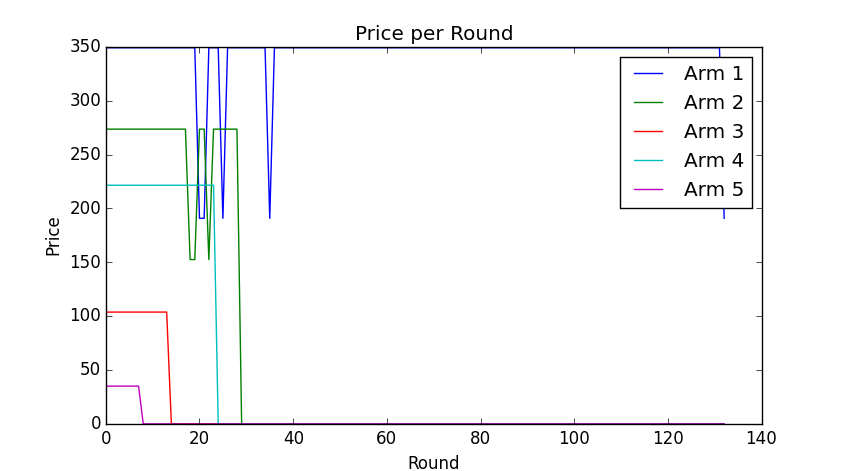
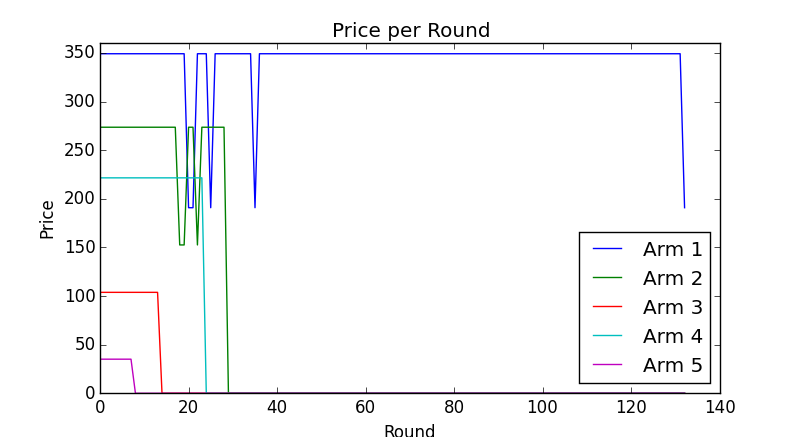
Fixed limited supply

diff --git a/LimitedSupply/MultiArmedBandit_Mech2.py b/LimitedSupply/MultiArmedBandit_Mech2.py
@@ -1,0 +1,140 @@
+from BanditArm import BanditArm
+import numpy as np
+import pandas as pd
+import matplotlib.pyplot as plt
+
+
+#Initialize variables
+k = [7, 8, 14, 9, 28]
+i = 10
+
+#Initialize p and find k_total
+pl = np.zeros(5)
+m = np.zeros(5)
+k_total = np.sum(k)
+n = 10^(k_total)
+
+#Initialize bandits
+arm1 = BanditArm(k[0],n,i,2)
+arm2 = BanditArm(k[1],n,i,2)
+arm3 = BanditArm(k[2],n,i,2)
+arm4 = BanditArm(k[3],n,i,2)
+arm5 = BanditArm(k[4],n,i,2)
+
+#Randomly choose each customer's "ideal" price
+max_price = 1
+ideal_prices = np.random.random(n) * (max_price + 1)
+
+arm1_stop = False
+arm2_stop = False
+arm3_stop = False
+arm4_stop = False
+arm5_stop = False
+
+
+while (True):
+
+	if (arm1_stop == False):
+		pl[0] = arm1.compute_pl()
+		m[0] = arm1.offer_pl()
+		arm1.computeSlandPl(m[0],pl[0],ideal_prices)
+		if ((arm1.Sl >= arm1.gamma*(1.+arm1.delta)**(-1.)) and (arm1.Rl >= arm1.R_max)):
+			arm1.R_max = arm1.Rl
+			arm1.l_max = arm1.l
+
+	if (arm2_stop == False):
+		pl[1] = arm2.compute_pl()
+		m[1] = arm2.offer_pl()
+		arm2.computeSlandPl(m[1],pl[1],ideal_prices)
+		if ((arm2.Sl >= arm2.gamma*(1.+arm2.delta)**(-1.)) and (arm2.Rl >= arm2.R_max)):
+			arm2.R_max = arm2.Rl
+			arm2.l_max = arm2.l
+
+	if (arm3_stop == False):
+		pl[2] = arm3.compute_pl()
+		m[2] = arm3.offer_pl()
+		arm3.computeSlandPl(m[2],pl[2],ideal_prices)
+		if ((arm3.Sl >= arm3.gamma*(1.+arm3.delta)**(-1.)) and (arm3.Rl >= arm3.R_max)):
+			arm3.R_max = arm3.Rl
+			arm3.l_max = arm3.l
+
+	if (arm4_stop == False):
+		pl[3] = arm4.compute_pl()
+		m[3] = arm4.offer_pl()
+		arm4.computeSlandPl(m[3],pl[3],ideal_prices)
+		if ((arm4.Sl >= arm4.gamma*(1.+arm4.delta)**(-1.)) and (arm4.Rl >= arm4.R_max)):
+			arm4.R_max = arm4.Rl
+			arm4.l_max = arm4.l
+	
+	if (arm5_stop == False):
+		pl[4] = arm5.compute_pl()
+		m[4] = arm5.offer_pl()
+		arm5.computeSlandPl(m[4],pl[4],ideal_prices)
+		if ((arm5.Sl >= arm5.gamma*(1.+arm5.delta)**(-1.)) and (arm5.Rl >= arm5.R_max)):
+			arm5.R_max = arm5.Rl
+			arm5.l_max = arm5.l
+
+
+	#Now check each arm
+	if (arm1_stop == False):
+		if ((arm1.pl <= arm1.epsilon) or (arm1.Sl >= (1 + arm1.delta) * arm1.alpha) or (arm1.Rl <= arm1.R_max * (1 + arm1.delta)**(-2))):
+			arm1_stop = True
+			print "arm 1 stopped"
+
+	if (arm2_stop == False):
+		if ((arm2.pl <= arm2.epsilon) or (arm2.Sl >= (1 + arm2.delta) * arm2.alpha) or (arm2.Rl <= arm2.R_max * (1 + arm2.delta)**(-2))):
+			arm2_stop = True
+			print "arm 2 stopped"
+
+	if (arm3_stop == False):
+		if ((arm3.pl <= arm3.epsilon) or (arm3.Sl >= (1 + arm3.delta) * arm3.alpha) or (arm3.Rl <= arm3.R_max * (1 + arm3.delta)**(-2))):
+			arm3_stop = True
+			print "arm 3 stopped"
+
+	if (arm4_stop == False):
+		if ((arm4.pl <= arm4.epsilon) or (arm4.Sl >= (1 + arm4.delta) * arm4.alpha) or (arm4.Rl <= arm4.R_max * (1 + arm4.delta)**(-2))):
+			arm4_stop = True
+			print "arm 4 stopped"
+
+	if (arm5_stop == False):
+		if ((arm5.pl <= arm5.epsilon) or (arm5.Sl >= (1 + arm5.delta) * arm5.alpha) or (arm5.Rl <= arm5.R_max * (1 + arm5.delta)**(-2))):
+			arm5_stop = True
+			print "arm 5 stopped"
+
+
+	if (arm1_stop and arm2_stop and arm3_stop and arm4_stop and arm5_stop):
+		break;
+
+	#print pl
+
+
+n_groups = 5
+
+prices = (arm1.pl * 100., arm2.pl * 100., arm3.pl * 100., arm4.pl * 100., arm5.pl * 100.)
+percent_accept = (arm1.Sl * 100., arm2.Sl * 100., arm3.Sl * 100., arm4.Sl * 100., arm5.Sl * 100.)
+
+fig, ax = plt.subplots()
+
+index = np.arange(n_groups)
+bar_width = 0.35
+
+opacity = 0.4
+error_config = {'ecolor': '0.3'}
+
+rects1 = plt.bar(index, prices, bar_width,
+                 alpha=opacity,
+                 color='b',
+                 label='% of Original Price')
+
+rects2 = plt.bar(index + bar_width, percent_accept, bar_width,
+                 alpha=opacity,
+                 color='r',
+                 label='% Acceptance')
+
+plt.ylabel('Percentage')
+plt.title('% of Original Price and % Acceptance Rate Per Arm \n k = ' + str(k))
+plt.xticks(index + bar_width, ('Arm 1', 'Arm 2', 'Arm 3', 'Arm 4', 'Arm 5'))
+plt.legend(loc=2)
+
+plt.tight_layout()
+plt.show()

diff --git a/LimitedSupply/BanditArm.py b/LimitedSupply/BanditArm.py
@@ -1,46 +1,73 @@
 #Multi-Armed Bandit Class
 import numpy as np
 from math import log10
-import matplotlib.pyplot as plt
-from mpl_toolkits.mplot3d import Axes3D
+import math
 import pandas as pd
-import random
+from random import random
 
 class BanditArm:
 
-	def __init__(self, k, n, i):
+	def __init__(self, k, n, i, mechanism):
 
-		self.k = k #number of items
-		self.n = n #number of buyers
-		self.i = i #number of total possible prices
+		#For mechanism #1:
+		if (mechanism == 1):
+			self.k = k #number of items
+			self.n = n #number of buyers
+			self.i = i #number of total possible prices
 
-		# ============== Initialize these dictionaries ============= #
-		self.rt = {}  #r_t variable
-		self.St = {}  #S_t variable
-		self.Nt = {}
+			# =============== Initialize these dictionaries ============= #
+			self.rt = {}  #r_t variable
+			self.St = {}  #S_t variable
+			self.Nt = {}
 
-		# ================== Initialize these lists ================= #
-		self.p_list = [] #Holds a list of prices as they change per round
-
-
-		# ================== Compute Alpha, Delta =================== #
-		self.alpha = np.floor(log10(float(n)))
-		self.delta = (k**(-1./3.)) * ((log10(n))**(2./3.))
+			# ================== Initialize these lists ================= #
+			self.p_list = [] #Holds a list of prices as they change per round
 
 
-		# =================== Initialize Variables ================== #
-		#Array of possible prices
-		P = np.zeros(i)
-		for jj in range (1, i+1):
-			P[jj-1] = self.delta * (1 + self.delta)**jj
-			self.Nt[P[jj-1]] = 0;
+			# ================== Compute Alpha, Delta =================== #
+			self.alpha = np.floor(log10(float(n)))
+			self.delta = (k**(-1./3.)) * ((log10(n))**(2./3.))
 
-		self.P = P
 
-		#Number of items sold per price
-		self.kt = dict()
-		for price in P:
-			self.kt[price] = 0
+			# =================== Initialize Variables ================== #
+			#Array of possible prices
+			P = np.zeros(i)
+			for jj in range (1, i+1):
+				P[jj-1] = self.delta * (1 + self.delta)**jj
+				self.Nt[P[jj-1]] = 0;
+
+			self.P = P
+
+			#Number of items sold per price
+			self.kt = dict()
+			for price in P:
+				self.kt[price] = 0
+
+		#Mechanism #2:
+		else:
+			self.k = k #number of items
+			self.n = n #number of buyers
+			self.i = i #number of possible prices
+
+			# ======== Compute Alpha, Delta, Epsilon, and Delta ======== #
+			self.epsilon = k**(-0.25) #Compute epsilon
+			self.delta = ((1./k) * log10(k))**(0.25) #Delta function
+			self.alpha =  (float(k)/float(n))**(1-self.delta) #Compute alpha
+			self.gamma = np.min((self.alpha, 1./math.e)) #Compute gamma
+
+			# =============== Initialize these variables =============== #
+			self.l = -1
+			self.Sl_max = (1 + self.delta) * self.alpha
+			self.R_max = 0
+			self.l_max = 0
+			self.Sl = 0
+			self.Rl = 0
+
+			#Initialize lists
+			self.Sl_list = [] #Saves history of Sl, per round
+			self.Rl_list = [] #Saves history of Rl, per round
+			self.p_list = [] #Saves history of prices, per round
+
 
 	#Find the p that minimizes It
 	def minimizeIt(self):
@@ -99,3 +126,37 @@ class BanditArm:
 			self.alpha = 0
 
 		
+	#Compute pl
+	def compute_pl(self):
+		self.l = self.l + 1
+		self.pl = (1. + self.delta)**(-self.l)
+		self.p_list.extend([self.pl])
+
+		return self.pl
+
+	#                                       n
+	#Offer price pl to m = delta * ----------------------- agents
+	#                             log_{1+delta}(1/epsilon) 
+	def offer_pl(self):
+		b = 1. + self.delta #log base
+		log_result = log10(1./self.epsilon)/log10(b)
+		m = self.delta * (self.n / log_result)
+		m = int(np.ceil(m))
+
+		return m
+
+	def computeSlandPl(self,m,pl,ideal_prices):
+		accept = 0.
+		total = 0.
+		for agent in range (0,int(m)):
+			if (ideal_prices[agent] > pl):
+				accept += 1
+
+			total += 1
+		self.Sl = float(accept) / total
+		self.Sl_list.extend([self.Sl])
+
+		self.Rl = pl * self.Sl
+		self.p_list.extend([pl])
+
+

diff --git a/LimitedSupply/MultiArmedBandit.py b/LimitedSupply/MultiArmedBandit.py
@@ -10,11 +10,11 @@ i = 10
 n = 100
 
 #Initialize bandits
-arm1 = BanditArm(k[0],n,i)
-arm2 = BanditArm(k[1],n,i)
-arm3 = BanditArm(k[2],n,i)
-arm4 = BanditArm(k[3],n,i)
-arm5 = BanditArm(k[4],n,i)
+arm1 = BanditArm(k[0],n,i,1)
+arm2 = BanditArm(k[1],n,i,1)
+arm3 = BanditArm(k[2],n,i,1)
+arm4 = BanditArm(k[3],n,i,1)
+arm5 = BanditArm(k[4],n,i,1)
 
 #Randomly choose each customer's "ideal" price
 max_price = np.max([arm1.P, arm2.P, arm3.P, arm4.P, arm5.P])
@@ -150,6 +150,7 @@ ax.plot(arm2_kt_df['Price'],arm2_kt_df['N_sold'],'r')
 ax.plot(arm3_kt_df['Price'],arm3_kt_df['N_sold'],'g')
 ax.plot(arm4_kt_df['Price'],arm4_kt_df['N_sold'],'k')
 ax.plot(arm5_kt_df['Price'],arm5_kt_df['N_sold'],'m')
+ax.legend(['Arm 1', 'Arm 2', 'Arm 3', 'Arm 4', 'Arm 5'])
 ax.set_title('Price vs. Number of Items Sold')
 ax.set_xlabel('Price')
 ax.set_ylabel('Number of Items Sold')
@@ -160,10 +161,11 @@ t_vector = np.arange(t)
 fig = plt.figure()
 ax = fig.add_subplot(111)
 ax.plot(t_vector,price_per_round)
-ax.legend(['Arm 1', 'Arm 2', 'Arm 3', 'Arm 4', 'Arm 5'])
+ax.legend(['Arm 1', 'Arm 2', 'Arm 3', 'Arm 4', 'Arm 5'],loc=4)
 ax.set_title('Price per Round')
 ax.set_xlabel('Round')
 ax.set_ylabel('Price')
+#ax.set_ylim([0,360])
 plt.show()
 
 #Plot price per round

diff --git a/LimitedSupply/Mechanism2.py b/LimitedSupply/Mechanism2.py
@@ -10,7 +10,7 @@ def Mechanism2(epsilon, delta, alpha, gamma):
 
 	#Settings
 	l = -1
-	pl = 1 #Depends on the MAB
+	#pl = 1 #Depends on the MAB
 	p_list = [] #Saves history of prices, per round
 
 	#Initialize lists
@@ -25,11 +25,10 @@ def Mechanism2(epsilon, delta, alpha, gamma):
 
 	while (True):
 
-		p_list.extend([pl])
-
 		#Compute l and pl
 		l = l + 1
 		pl = (1.+delta)**(-l)
+		p_list.extend([pl])
 
 		#                                       n
 		#Offer price pl to m = delta * ----------------------- agents
